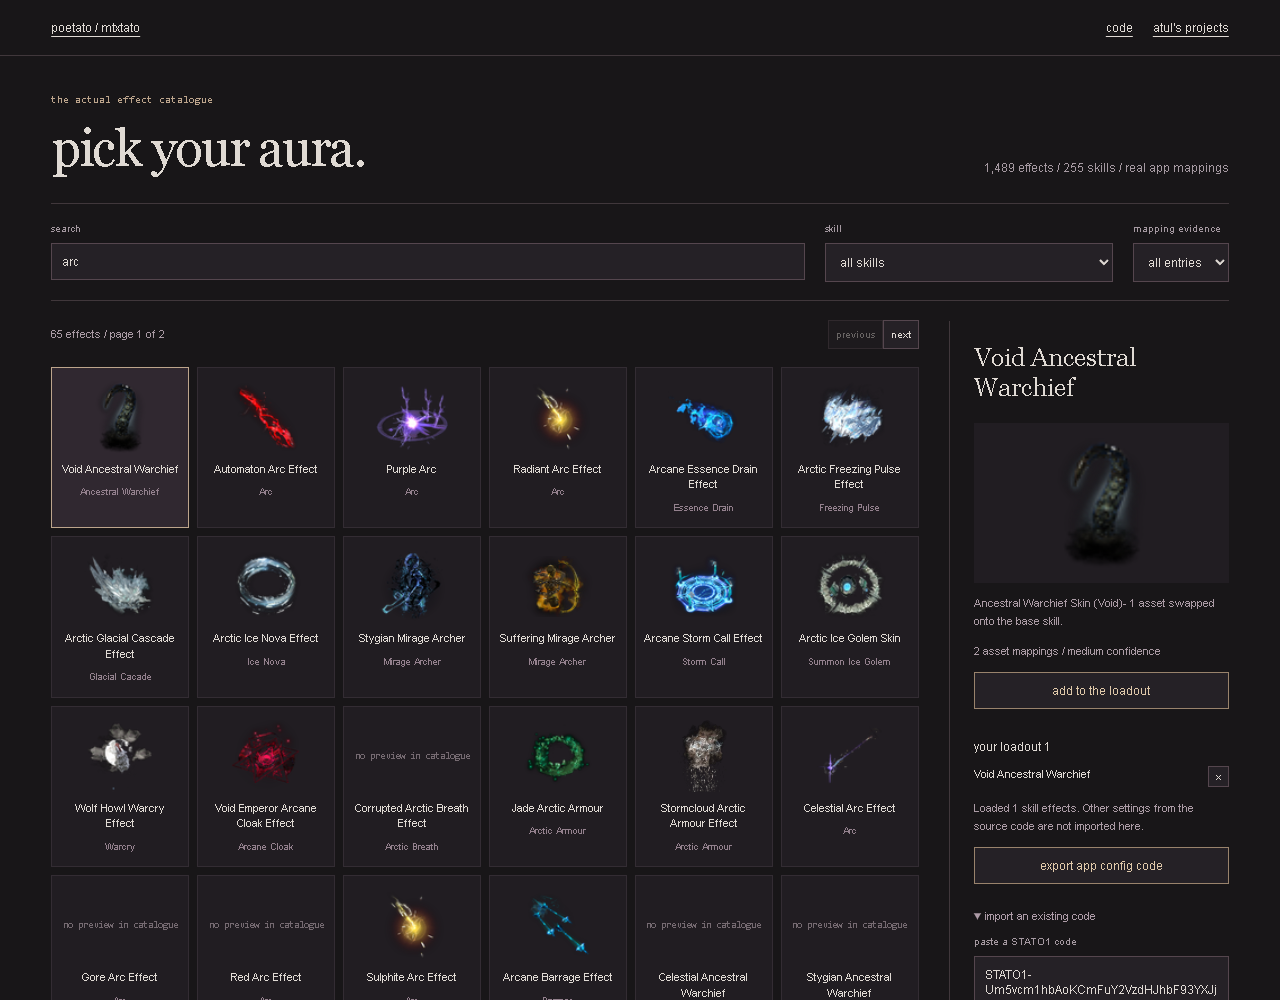
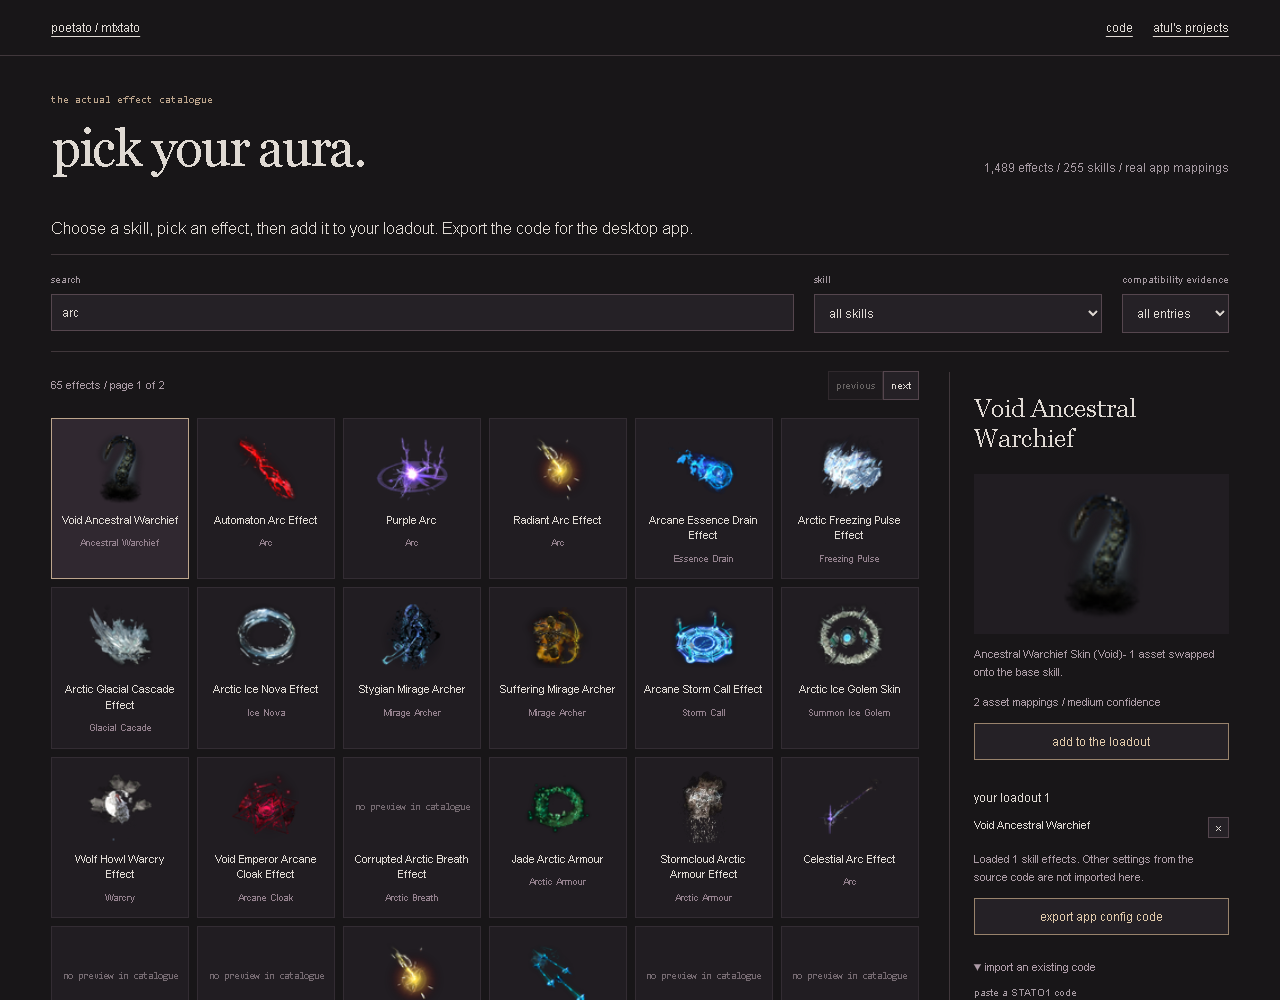
Clarify loadout flow and mobile effect navigation

diff --git a/examples/portfolio/index.html b/examples/portfolio/index.html
@@ -25,6 +25,10 @@
                 </div>
                 <p id="summary">loading the wardrobe...</p>
             </div>
+            <p class="journey">
+                Choose a skill, pick an effect, then add it to your loadout.
+                Export the code for the desktop app.
+            </p>
             <div class="filters">
                 <label
                     >search<input
@@ -36,7 +40,7 @@
                         <option value="">all skills</option>
                     </select></label
                 ><label
-                    >mapping evidence<select id="confidence">
+                    >compatibility evidence<select id="confidence">
                         <option value="">all entries</option>
                         <option>HIGH</option>
                         <option>MEDIUM</option>
@@ -55,7 +59,10 @@
                     </div>
                     <div id="catalogue"></div>
                 </section>
-                <aside>
+                <aside id="effect-desk">
+                    <a class="back-to-catalogue" href="#catalogue"
+                        >back to effects</a
+                    >
                     <h2 id="effect-title">select an effect</h2>
                     <div id="preview"></div>
                     <p id="blurb"></p>

diff --git a/examples/portfolio/style.css b/examples/portfolio/style.css
@@ -296,3 +296,20 @@ footer {
         gap: 12px;
     }
 }
+
+.journey {
+    color: var(--muted);
+    max-width: 800px;
+}
+.back-to-catalogue {
+    display: none;
+}
+#effect-desk {
+    scroll-margin-top: 18px;
+}
+@media (max-width: 850px) {
+    .back-to-catalogue {
+        display: inline-block;
+        margin-bottom: 15px;
+    }
+}

diff --git a/tools/browser_audit.py b/tools/browser_audit.py
@@ -35,6 +35,10 @@ try:
         page.screenshot(path=str(ROOT/'examples/portfolio/preview.png'))
         page.set_viewport_size({'width':390,'height':844})
         assert page.evaluate('document.documentElement.scrollWidth<=innerWidth+1'),'mobile overflow'
+        page.locator('#catalogue [data-key]').first.click()
+        assert page.locator('#effect-title').bounding_box()['y'] < 500
+        page.locator('.back-to-catalogue').click()
+        page.wait_for_function('document.querySelector("#catalogue").getBoundingClientRect().top < 100')
         assert not errors,errors
         print('PASS: full catalogue, search, selection, real preview, STATO1 export/import and mobile')
         browser.close()

diff --git a/examples/portfolio/README.md b/examples/portfolio/README.md
@@ -1,33 +1,3 @@
-# mtxtato: working example
+See the [repository guide](../../README.md) for the working app, actual datasets and validation commands.
 
-Choose a skill and catalogue entry; inspect validated swap pairs or an incompatibility result.
-
-**[Open the demo](https://lolstar123.github.io/mtxtato-catalogue/)** · [Calculation / workflow code](model.mjs) · [Checks](model.test.mjs)
-
-![Example output](preview.png)
-
-## Run it
-
-From the repository root, with Python 3 and Node.js 22:
-
-```sh
-python -m http.server 8000 --directory examples/portfolio
-```
-
-Open http://localhost:8000. Change an input, or edit the JSON fixture, then export the computed result as JSON or CSV.
-
-```sh
-node --test examples/portfolio/model.test.mjs
-```
-
-## What it does
-
-Browse the effect catalogue, match an effect to its base skill and build the asset replacement plan. Compatibility checks keep a cosmetic selection tied to the skill it belongs to.
-
-## Scope and source
-
-Catalogue metadata and a dry-run planner. No game bundles or paid cosmetic assets are distributed.
-
-smoothtato-dev/assets/skin_catalog.json. The included catalogue is a small metadata excerpt.
-
-`model.mjs` is the small public implementation. `app.mjs` connects its inputs and outputs to the browser. No package install or network key is needed to run the example. GitHub Pages runs the same files after the checks pass.
+[Open the demo](https://lolstar123.github.io/mtxtato-catalogue/).
